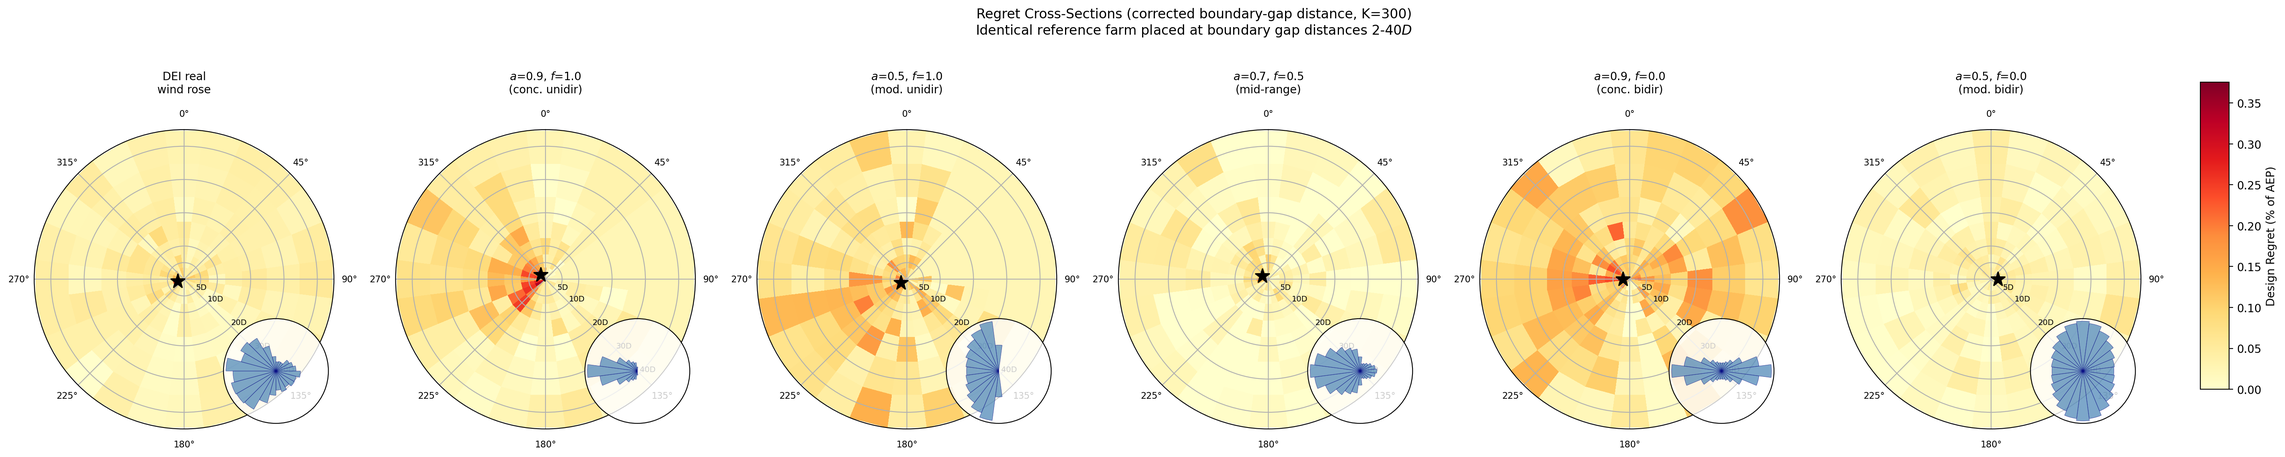
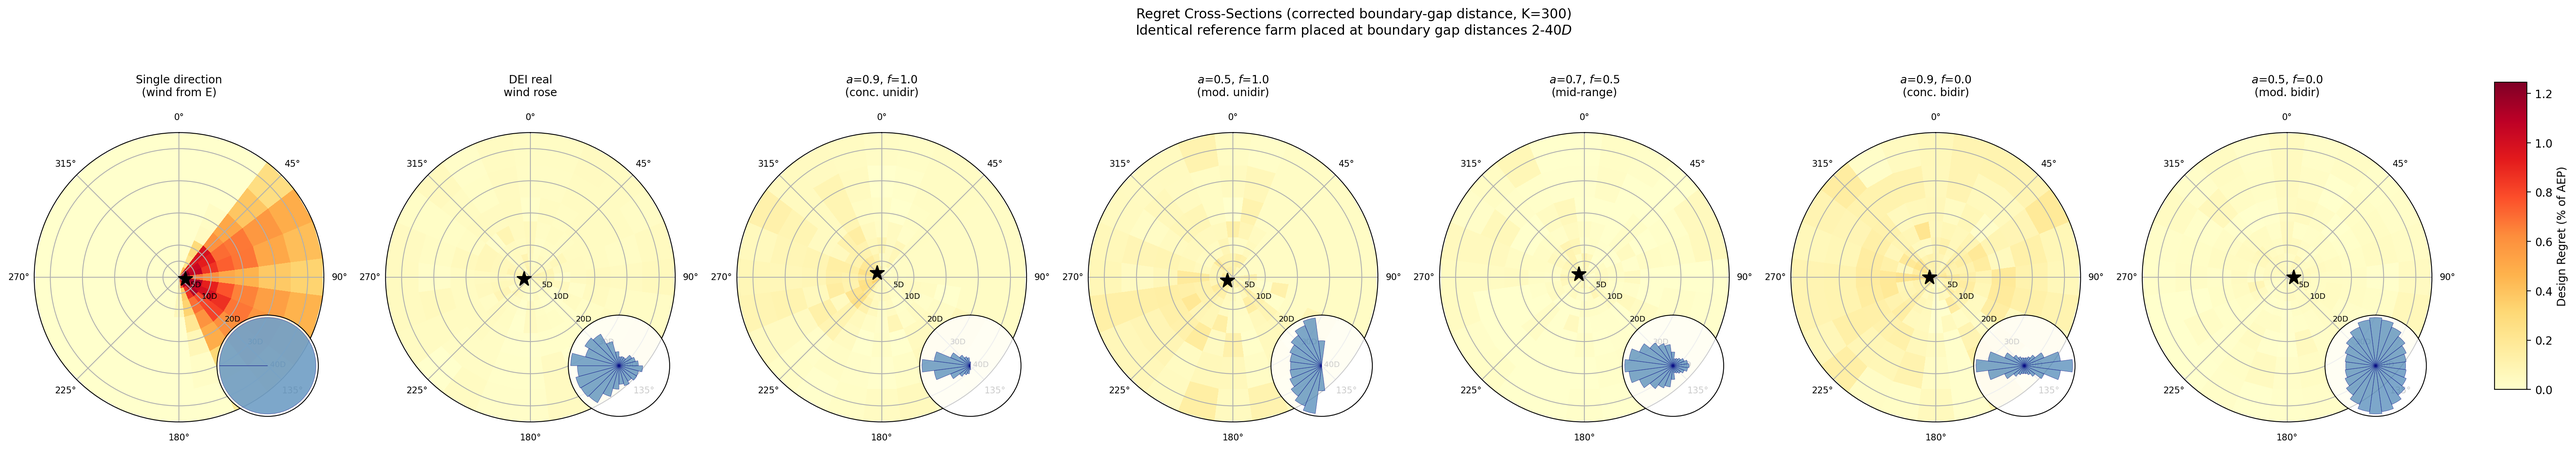
Add single-direction (east) validation case to cross-section figure
Zero downwind regret confirms methodology is correct.
Peak 1.25% upwind — 3-14x higher than multi-direction cases.
7-panel figure: unidir validation + DEI + 5 elliptical cases.

diff --git a/scripts/plot_cross_section_fixed.py b/scripts/plot_cross_section_fixed.py
@@ -15,6 +15,7 @@ from pathlib import Path
 D = 240.0
 
 cases = [
+    ("Single direction\n(wind from E)", "unidir90"),
     ("DEI real\nwind rose", "dei"),
     ("$a$=0.9, $f$=1.0\n(conc. unidir)", "a0.9_f1.0"),
     ("$a$=0.5, $f$=1.0\n(mod. unidir)", "a0.5_f1.0"),
@@ -27,6 +28,10 @@ distances_D = [2, 5, 10, 15, 20, 30, 40]
 
 
 def get_wind_rose(case_dir):
+    if case_dir == "unidir90":
+        dirs = np.array([90.0])
+        freqs = np.array([1.0])
+        return dirs, freqs
     if case_dir == "dei":
         import pandas as pd
         csv_path = Path("energy_island_10y_daily_av_wind.csv")
@@ -78,7 +83,7 @@ for label, case_dir in cases:
     global_max_pct = max(global_max_pct, np.nanmax(regret_pct))
 
 # Plot 6-panel polar heatmap
-fig, axes = plt.subplots(1, 6, figsize=(30, 5.5),
+fig, axes = plt.subplots(1, 7, figsize=(34, 5.5),
                           subplot_kw={"projection": "polar"})
 
 for ax, (label, case_dir) in zip(axes, cases):
